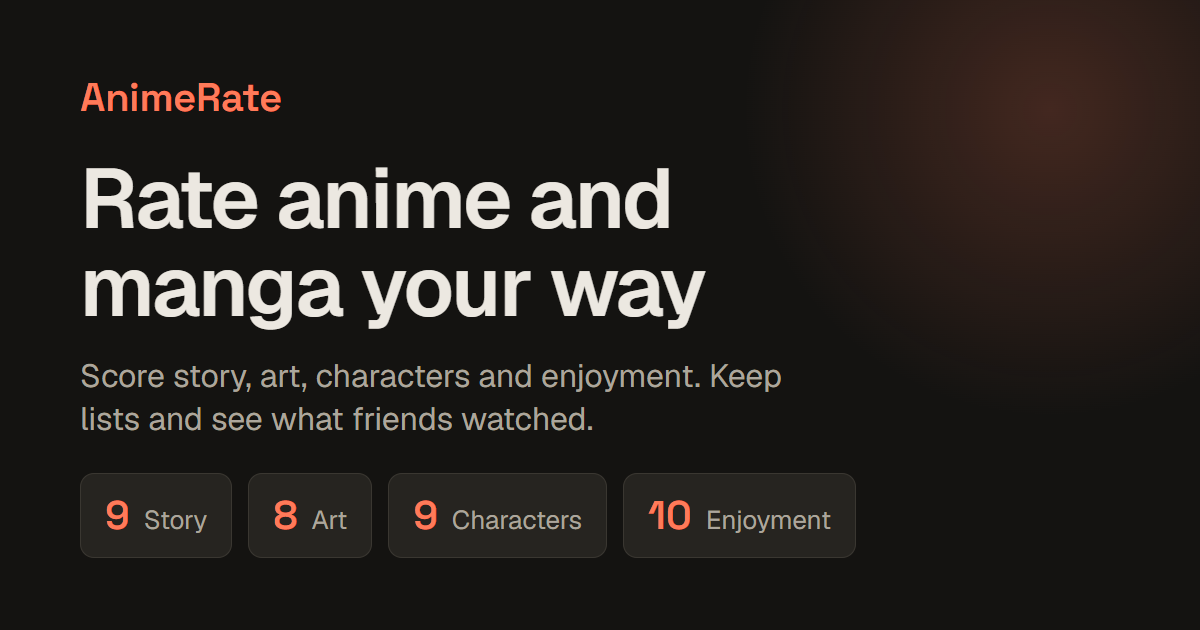
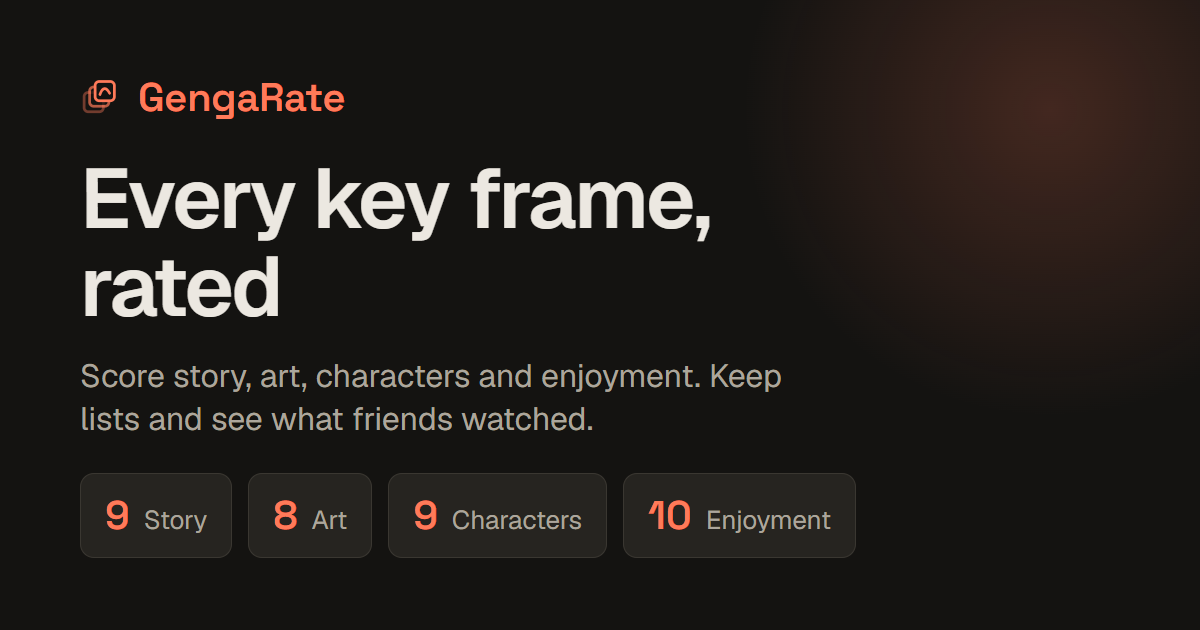
Rename the app to GengaRate

Changed region(s): [[0.0617, 0.2714, 0.6167, 0.5429], [0.0617, 0.1206, 0.3083, 0.181]]

diff --git a/web/index.html b/web/index.html
@@ -4,19 +4,20 @@
     <meta charset="UTF-8" />
     <link rel="icon" type="image/svg+xml" href="/favicon.svg" />
     <meta name="viewport" content="width=device-width, initial-scale=1.0" />
-    <title>AnimeRate</title>
+    <title>GengaRate</title>
     <meta name="description" content="Rate anime and manga on story, art, characters and enjoyment, keep lists and see what friends watched." />
     <meta name="theme-color" content="#141311" />
     <script src="/theme-init.js"></script>
-    <meta property="og:site_name" content="AnimeRate" />
+    <meta property="og:site_name" content="GengaRate" />
     <meta property="og:type" content="website" />
-    <meta property="og:title" content="AnimeRate" />
+    <meta property="og:title" content="GengaRate" />
     <meta property="og:description" content="Rate anime and manga on story, art, characters and enjoyment, keep lists and see what friends watched." />
+    <!-- DOMAIN: og:url and og:image below hold the site origin. Also in api/preview.js (ORIGIN) and scripts/preview-render.test.mjs; prerender-meta.mjs reads og:url. -->
     <meta property="og:url" content="https://anime-rating-platform-pi.vercel.app/" />
     <meta property="og:image" content="https://anime-rating-platform-pi.vercel.app/og-image.png" />
     <meta property="og:image:width" content="1200" />
     <meta property="og:image:height" content="630" />
-    <meta property="og:image:alt" content="AnimeRate: rate anime and manga on story, art, characters and enjoyment" />
+    <meta property="og:image:alt" content="GengaRate: rate anime and manga on story, art, characters and enjoyment" />
     <meta name="twitter:card" content="summary_large_image" />
   </head>
   <body>

diff --git a/web/src/components/Layout.tsx b/web/src/components/Layout.tsx
@@ -31,7 +31,16 @@ export default function Layout() {
     <>
       <a href="#main" className="skip-link" onClick={(e) => { e.preventDefault(); document.getElementById('main')?.focus() }}>Skip to content</a>
       <nav className="nav" aria-label="Site">
-        <NavLink to="/" end className="brand">AnimeRate</NavLink>
+        <NavLink to="/" end className="brand">
+          {/* three key-frame sheets with a pencil line: genga are the key drawings of an animation */}
+          <svg className="brand-mark" viewBox="0 0 32 32" width="22" height="22" fill="none" aria-hidden="true" focusable="false">
+            <rect x="3" y="12" width="14" height="14" rx="3" opacity=".4" />
+            <rect x="7" y="8" width="14" height="14" rx="3" className="brand-sheet" opacity=".7" />
+            <rect x="11" y="4" width="14" height="14" rx="3" className="brand-sheet" />
+            <path d="M14.5 13.5c2-5.5 4.5-5.5 7-1" />
+          </svg>
+          GengaRate
+        </NavLink>
         <span className="spacer" />
         {/* phones get these links in the bottom tab bar */}
         <NavLink to="/" end className="nav-text">Home</NavLink>

diff --git a/web/src/index.css b/web/src/index.css
@@ -240,6 +240,9 @@ button.on { background: var(--raised-hover); border-color: var(--accent); color:
 .nav a.active { color: var(--text); background: var(--raised); }
 .nav .brand { color: var(--text); font-weight: var(--fw-medium); font-size: 17px; line-height: 1; margin-right: var(--s-4); padding-left: 0; }
 .nav .brand.active { background: none; }
+.nav .brand { display: inline-flex; align-items: center; gap: var(--s-2); }
+.brand-mark { flex: none; stroke: var(--accent); stroke-width: 2; stroke-linejoin: round; stroke-linecap: round; }
+.brand-sheet { fill: var(--surface-deep); }
 .spacer { flex: 1; }
 
 .avatar-menu { position: relative; }

diff --git a/web/api/_render.js b/web/api/_render.js
@@ -18,7 +18,7 @@ const swap = (src, re, value) => src.replace(re, (_, a, b) => a + value + b)
 
 // meta: { name, description ('' keeps the shell's), cover (absolute https url or null), path ('/series/1') }.
 export function render(html, { name, description, cover, path }, origin) {
-  const full = `${name} · AnimeRate`
+  const full = `${name} · GengaRate`
   let out = html
   out = swap(out, /(<title>)[^<]*(<\/title>)/, esc(full))
   out = swap(out, /(<meta property="og:title" content=")[^"]*(")/, esc(full))

diff --git a/web/src/pages/Terms.tsx b/web/src/pages/Terms.tsx
@@ -9,7 +9,7 @@ export default function Terms() {
   return (
     <Legal title={pageMeta['/terms'].title} updated={TERMS_UPDATED}>
       <p>
-        AnimeRate is a hobby and portfolio project, run by one person. It is free, it comes without
+        GengaRate is a hobby and portfolio project, run by one person. It is free, it comes without
         any promise of uptime, and these terms are short on purpose. By creating an account or using
         the site you agree to them.
       </p>

diff --git a/web/src/useTitle.ts b/web/src/useTitle.ts
@@ -1,8 +1,8 @@
 import { useEffect } from 'react'
 
-// sets document.title to "<page> · AnimeRate"; pass nothing (or null while loading) for the bare name
+// sets document.title to "<page> · GengaRate"; pass nothing (or null while loading) for the bare name
 export function useTitle(page?: string | null) {
   useEffect(() => {
-    document.title = page ? `${page} · AnimeRate` : 'AnimeRate'
+    document.title = page ? `${page} · GengaRate` : 'GengaRate'
   }, [page])
 }

diff --git a/web/src/pages/Privacy.tsx b/web/src/pages/Privacy.tsx
@@ -6,7 +6,7 @@ export default function Privacy() {
   return (
     <Legal title={pageMeta['/privacy'].title} updated="2026-11-07">
       <p>
-        AnimeRate is a hobby and portfolio project run by one person. It keeps only what it needs to
+        GengaRate is a hobby and portfolio project run by one person. It keeps only what it needs to
         work. We do not sell your data, we show no ads, and we use no tracking or analytics.
       </p>
 

diff --git a/web/api/preview.js b/web/api/preview.js
@@ -3,6 +3,7 @@
 import { describe, render, safeCover } from './_render.js'
 
 const API = 'https://anime-rating-platform-production.up.railway.app'
+// DOMAIN: site origin; keep in step with og:url in index.html
 const ORIGIN = 'https://anime-rating-platform-pi.vercel.app'
 const timeout = () => AbortSignal.timeout(4000)
 

diff --git a/api.Tests/EmailSenderTests.cs b/api.Tests/EmailSenderTests.cs
@@ -74,7 +74,7 @@ public class EmailSenderTests
             ["Gmail:ClientId"] = "cid",
             ["Gmail:ClientSecret"] = "csecret",
             ["Gmail:RefreshToken"] = refresh,
-            ["Gmail:From"] = "Anime Rating Platform <me@gmail.com>"
+            ["Gmail:From"] = "GengaRate <me@gmail.com>"
         };
         if (withResend) settings["Resend:ApiKey"] = "re_test_key";
         var config = new ConfigurationBuilder().AddInMemoryCollection(settings).Build();
@@ -98,7 +98,7 @@ public class EmailSenderTests
         var raw = JsonDocument.Parse(handler.Calls[1].Body).RootElement.GetProperty("raw").GetString()!;
         var message = Encoding.UTF8.GetString(WebEncoders.Base64UrlDecode(raw));
         Assert.Contains("To: kai@a.com\r\n", message);
-        Assert.Contains("From: Anime Rating Platform <me@gmail.com>\r\n", message);
+        Assert.Contains("From: GengaRate <me@gmail.com>\r\n", message);
         var b64 = message.Split("\r\n\r\n", 2)[1].Replace("\r\n", "");
         Assert.Equal("Confirm: https://x.test/c?t=1", Encoding.UTF8.GetString(Convert.FromBase64String(b64)));
     }

diff --git a/api/Program.cs b/api/Program.cs
@@ -44,7 +44,7 @@ builder.Services.AddControllers();
 builder.Services.AddEndpointsApiExplorer();
 builder.Services.AddSwaggerGen(o =>
 {
-    o.SwaggerDoc("v1", new() { Title = "AnimeRate API", Version = "v1" });
+    o.SwaggerDoc("v1", new() { Title = "GengaRate API", Version = "v1" });
     o.AddSecurityDefinition("Bearer", new()
     {
         Type = Microsoft.OpenApi.Models.SecuritySchemeType.Http, Scheme = "bearer", BearerFormat = "JWT",
@@ -214,7 +214,7 @@ app.UseSwagger(o => o.RouteTemplate = "docs/{documentName}/openapi.json");
 app.UseSwaggerUI(o =>
 {
     o.RoutePrefix = "docs";
-    o.SwaggerEndpoint("/docs/v1/openapi.json", "AnimeRate API v1");
+    o.SwaggerEndpoint("/docs/v1/openapi.json", "GengaRate API v1");
 });
 
 app.MapControllers();

diff --git a/api/Controllers/DeleteAccountController.cs b/api/Controllers/DeleteAccountController.cs
@@ -93,7 +93,7 @@ public class DeleteAccountController : ControllerBase
 
         if (!string.IsNullOrEmpty(email))
         {
-            try { await _email.Send(email, "Your account was deleted", "Your AnimeRate account was deleted. Your ratings and reviews stay on the site as \"Deleted user\". If this was not you, contact support right away."); }
+            try { await _email.Send(email, "Your account was deleted", "Your GengaRate account was deleted. Your ratings and reviews stay on the site as \"Deleted user\". If this was not you, contact support right away."); }
             catch (Exception ex) { _log.LogError(ex.GetType().Name + " sending the deletion notice for user {UserId}", user.Id); }
         }
         return NoContent();

diff --git a/api/Services/EmailSender.cs b/api/Services/EmailSender.cs
@@ -116,7 +116,7 @@ public class EmailSender
             throw new ArgumentException("Email address and subject must not contain line breaks.");
         var from = _config["Gmail:From"];
         if (string.IsNullOrEmpty(from))
-            throw new InvalidOperationException("Gmail:From is not set (for example: Anime Rating Platform <you@gmail.com>).");
+            throw new InvalidOperationException("Gmail:From is not set (for example: GengaRate <you@gmail.com>).");
 
         var token = await GetGmailAccessToken(_config["Gmail:RefreshToken"]!);
 
